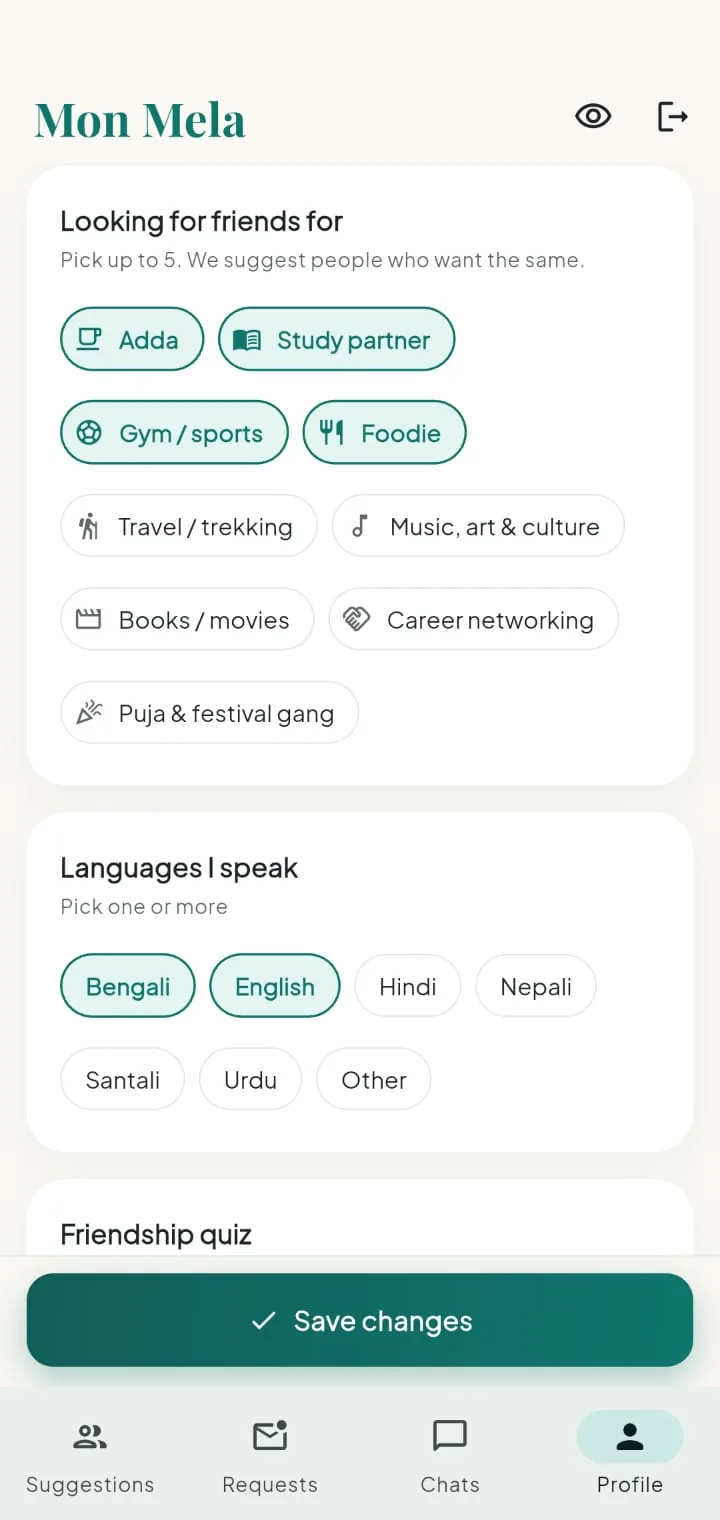
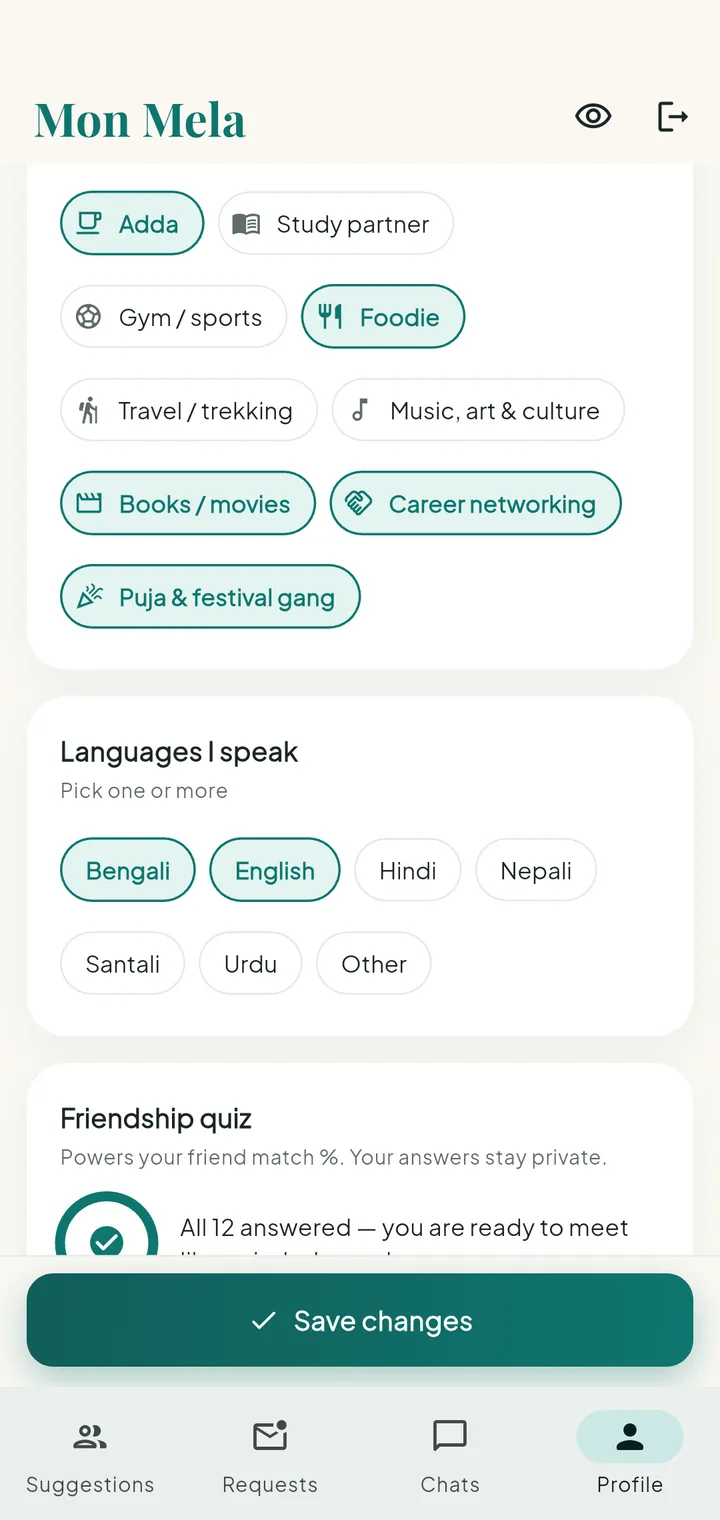
New app screenshots

diff --git a/index.html b/index.html
@@ -138,7 +138,7 @@
 
   <section class="how" aria-labelledby="how">
     <h2 id="how"><span class="l" lang="en">How it works</span><span class="l" lang="bn">কীভাবে কাজ করে</span></h2>
-    <ol class="how-row"><li class="how-item"><div class="phone "><div class="screen"><img src="img/app-welcome.webp" alt="Mon Mela welcome screen with Continue with Google" width="720" height="1520" loading="lazy"></div></div><div class="how-cap"><h3><span class="l" lang="en">Sign in with Google</span><span class="l" lang="bn">Google দিয়ে লগইন</span></h3><p><span class="l" lang="en">One tap, no password. We never post anything for you.</span><span class="l" lang="bn">এক ট্যাপে, পাসওয়ার্ড ছাড়া। আপনার হয়ে কিছু পোস্ট হয় না।</span></p></div></li><li class="how-item"><div class="phone "><div class="screen"><img src="img/app-looking-for.webp" alt="Picking what you are looking for: adda, study partner, gym, foodie" width="720" height="1520" loading="lazy"></div></div><div class="how-cap"><h3><span class="l" lang="en">Say what you're looking for</span><span class="l" lang="bn">কী খুঁজছেন, বলুন</span></h3><p><span class="l" lang="en">Adda, a study partner, a gym buddy, the Puja gang: pick up to five.</span><span class="l" lang="bn">আড্ডা, পড়ার সঙ্গী, জিমের সঙ্গী, পুজোর দল: পাঁচটা পর্যন্ত বেছে নিন।</span></p></div></li><li class="how-item"><div class="phone "><div class="screen"><img src="img/app-quiz.webp" alt="Friendship quiz: all 12 questions answered" width="720" height="1520" loading="lazy"></div></div><div class="how-cap"><h3><span class="l" lang="en">Answer the friendship quiz</span><span class="l" lang="bn">বন্ধুত্বের কুইজ</span></h3><p><span class="l" lang="en">Twelve easy questions. Your answers stay private; they only work out your match %.</span><span class="l" lang="bn">বারোটা সহজ প্রশ্ন। উত্তর গোপন থাকে, শুধু মিলের % হিসেব হয়।</span></p></div></li><li class="how-item"><div class="phone "><div class="screen"><img src="img/app-picks.webp" alt="Today's picks: a suggestion with 35% match and why you match" width="720" height="1520" loading="lazy"></div></div><div class="how-cap"><h3><span class="l" lang="en">Meet today's picks</span><span class="l" lang="bn">আজকের মানুষেরা</span></h3><p><span class="l" lang="en">New people every morning, each with a match % and why you match.</span><span class="l" lang="bn">প্রতিদিন সকালে নতুন মানুষ, সঙ্গে মিলের % আর কেন মিল।</span></p></div></li></ol>
+    <ol class="how-row"><li class="how-item"><div class="phone "><div class="screen"><img src="img/app-welcome.webp?v=59c6282d" alt="Mon Mela welcome screen with Continue with Google" width="720" height="1520" loading="lazy"></div></div><div class="how-cap"><h3><span class="l" lang="en">Sign in with Google</span><span class="l" lang="bn">Google দিয়ে লগইন</span></h3><p><span class="l" lang="en">One tap, no password. We never post anything for you.</span><span class="l" lang="bn">এক ট্যাপে, পাসওয়ার্ড ছাড়া। আপনার হয়ে কিছু পোস্ট হয় না।</span></p></div></li><li class="how-item"><div class="phone "><div class="screen"><img src="img/app-looking-for.webp?v=d07f0ab6" alt="Picking what you are looking for: adda, study partner, gym, foodie" width="720" height="1520" loading="lazy"></div></div><div class="how-cap"><h3><span class="l" lang="en">Say what you're looking for</span><span class="l" lang="bn">কী খুঁজছেন, বলুন</span></h3><p><span class="l" lang="en">Adda, a study partner, a gym buddy, the Puja gang: pick up to five.</span><span class="l" lang="bn">আড্ডা, পড়ার সঙ্গী, জিমের সঙ্গী, পুজোর দল: পাঁচটা পর্যন্ত বেছে নিন।</span></p></div></li><li class="how-item"><div class="phone "><div class="screen"><img src="img/app-quiz.webp?v=58fe721a" alt="Friendship quiz: all 12 questions answered" width="720" height="1520" loading="lazy"></div></div><div class="how-cap"><h3><span class="l" lang="en">Answer the friendship quiz</span><span class="l" lang="bn">বন্ধুত্বের কুইজ</span></h3><p><span class="l" lang="en">Twelve easy questions. Your answers stay private; they only work out your match %.</span><span class="l" lang="bn">বারোটা সহজ প্রশ্ন। উত্তর গোপন থাকে, শুধু মিলের % হিসেব হয়।</span></p></div></li><li class="how-item"><div class="phone "><div class="screen"><img src="img/app-picks.webp?v=05b9cf1c" alt="Today's picks: a suggestion with 82% match and why you match" width="720" height="1520" loading="lazy"></div></div><div class="how-cap"><h3><span class="l" lang="en">Meet today's picks</span><span class="l" lang="bn">আজকের মানুষেরা</span></h3><p><span class="l" lang="en">New people every morning, each with a match % and why you match.</span><span class="l" lang="bn">প্রতিদিন সকালে নতুন মানুষ, সঙ্গে মিলের % আর কেন মিল।</span></p></div></li></ol>
     <p class="how-then"><svg viewBox="0 0 24 24" class="icon" aria-hidden="true"><path d="M5 6h14v9H9l-4 3z"/></svg><span><span class="l" lang="en"><b>Then connect.</b> The chat opens only when both of you say yes.</span><span class="l" lang="bn"><b>তারপর কানেক্ট।</b> দুজনেই রাজি হলে তবেই চ্যাট খোলে।</span></span></p>
   </section>
 
@@ -165,8 +165,8 @@
 <g fill="none" stroke="#115E59" stroke-width="2.4" stroke-dasharray="8 6" stroke-linecap="round" opacity=".55">
   <circle cx="160" cy="150" r="100"/><circle cx="260" cy="150" r="100"/></g>
 </svg>
-        <div class="phone phone-b"><div class="screen"><img src="img/app-looking-for.webp" alt="" width="720" height="1520" loading="lazy"></div></div>
-        <div class="phone phone-a"><div class="screen"><img src="img/app-picks.webp" alt="" width="720" height="1520" loading="lazy"></div></div>
+        <div class="phone phone-b"><div class="screen"><img src="img/app-looking-for.webp?v=d07f0ab6" alt="" width="720" height="1520" loading="lazy"></div></div>
+        <div class="phone phone-a"><div class="screen"><img src="img/app-picks.webp?v=05b9cf1c" alt="" width="720" height="1520" loading="lazy"></div></div>
       </div>
     </div>
   </section>

diff --git a/download.html b/download.html
@@ -78,7 +78,7 @@
     </div>
 
     <div class="dl-visual">
-      <div class="phone "><div class="screen"><img src="img/app-welcome.webp" alt="Mon Mela welcome screen with Continue with Google" width="720" height="1520"></div></div>
+      <div class="phone "><div class="screen"><img src="img/app-welcome.webp?v=59c6282d" alt="Mon Mela welcome screen with Continue with Google" width="720" height="1520"></div></div>
       <!-- Computers only (CSS): scan to open this page on the phone -->
       <figure class="dl-qr">
         <svg width="33mm" height="33mm" version="1.1" viewBox="0 0 33 33" xmlns="http://www.w3.org/2000/svg"><path d="M2,2H3V3H2zM3,2H4V3H3zM4,2H5V3H4zM5,2H6V3H5zM6,2H7V3H6zM7,2H8V3H7zM8,2H9V3H8zM10,2H11V3H10zM12,2H13V3H12zM15,2H16V3H15zM16,2H17V3H16zM17,2H18V3H17zM20,2H21V3H20zM24,2H25V3H24zM25,2H26V3H25zM26,2H27V3H26zM27,2H28V3H27zM28,2H29V3H28zM29,2H30V3H29zM30,2H31V3H30zM2,3H3V4H2zM8,3H9V4H8zM11,3H12V4H11zM12,3H13V4H12zM13,3H14V4H13zM17,3H18V4H17zM19,3H20V4H19zM20,3H21V4H20zM22,3H23V4H22zM24,3H25V4H24zM30,3H31V4H30zM2,4H3V5H2zM4,4H5V5H4zM5,4H6V5H5zM6,4H7V5H6zM8,4H9V5H8zM10,4H11V5H10zM11,4H12V5H11zM15,4H16V5H15zM19,4H20V5H19zM20,4H21V5H20zM24,4H25V5H24zM26,4H27V5H26zM27,4H28V5H27zM28,4H29V5H28zM30,4H31V5H30zM2,5H3V6H2zM4,5H5V6H4zM5,5H6V6H5zM6,5H7V6H6zM8,5H9V6H8zM14,5H15V6H14zM17,5H18V6H17zM18,5H19V6H18zM19,5H20V6H19zM20,5H21V6H20zM22,5H23V6H22zM24,5H25V6H24zM26,5H27V6H26zM27,5H28V6H27zM28,5H29V6H28zM30,5H31V6H30zM2,6H3V7H2zM4,6H5V7H4zM5,6H6V7H5zM6,6H7V7H6zM8,6H9V7H8zM12,6H13V7H12zM13,6H14V7H13zM17,6H18V7H17zM18,6H19V7H18zM20,6H21V7H20zM24,6H25V7H24zM26,6H27V7H26zM27,6H28V7H27zM28,6H29V7H28zM30,6H31V7H30zM2,7H3V8H2zM8,7H9V8H8zM10,7H11V8H10zM14,7H15V8H14zM15,7H16V8H15zM16,7H17V8H16zM18,7H19V8H18zM20,7H21V8H20zM22,7H23V8H22zM24,7H25V8H24zM30,7H31V8H30zM2,8H3V9H2zM3,8H4V9H3zM4,8H5V9H4zM5,8H6V9H5zM6,8H7V9H6zM7,8H8V9H7zM8,8H9V9H8zM10,8H11V9H10zM12,8H13V9H12zM14,8H15V9H14zM16,8H17V9H16zM18,8H19V9H18zM20,8H21V9H20zM22,8H23V9H22zM24,8H25V9H24zM25,8H26V9H25zM26,8H27V9H26zM27,8H28V9H27zM28,8H29V9H28zM29,8H30V9H29zM30,8H31V9H30zM11,9H12V10H11zM12,9H13V10H12zM13,9H14V10H13zM15,9H16V10H15zM21,9H22V10H21zM22,9H23V10H22zM2,10H3V11H2zM4,10H5V11H4zM8,10H9V11H8zM9,10H10V11H9zM11,10H12V11H11zM13,10H14V11H13zM15,10H16V11H15zM17,10H18V11H17zM18,10H19V11H18zM22,10H23V11H22zM25,10H26V11H25zM28,10H29V11H28zM30,10H31V11H30zM3,11H4V12H3zM4,11H5V12H4zM6,11H7V12H6zM7,11H8V12H7zM9,11H10V12H9zM12,11H13V12H12zM18,11H19V12H18zM19,11H20V12H19zM21,11H22V12H21zM22,11H23V12H22zM24,11H25V12H24zM25,11H26V12H25zM29,11H30V12H29zM30,11H31V12H30zM2,12H3V13H2zM5,12H6V13H5zM8,12H9V13H8zM14,12H15V13H14zM15,12H16V13H15zM16,12H17V13H16zM18,12H19V13H18zM21,12H22V13H21zM22,12H23V13H22zM24,12H25V13H24zM26,12H27V13H26zM27,12H28V13H27zM28,12H29V13H28zM30,12H31V13H30zM2,13H3V14H2zM4,13H5V14H4zM5,13H6V14H5zM9,13H10V14H9zM11,13H12V14H11zM12,13H13V14H12zM13,13H14V14H13zM14,13H15V14H14zM16,13H17V14H16zM17,13H18V14H17zM18,13H19V14H18zM20,13H21V14H20zM22,13H23V14H22zM23,13H24V14H23zM25,13H26V14H25zM26,13H27V14H26zM27,13H28V14H27zM2,14H3V15H2zM5,14H6V15H5zM6,14H7V15H6zM8,14H9V15H8zM10,14H11V15H10zM14,14H15V15H14zM15,14H16V15H15zM16,14H17V15H16zM21,14H22V15H21zM22,14H23V15H22zM24,14H25V15H24zM25,14H26V15H25zM30,14H31V15H30zM2,15H3V16H2zM6,15H7V16H6zM7,15H8V16H7zM9,15H10V16H9zM10,15H11V16H10zM11,15H12V16H11zM12,15H13V16H12zM13,15H14V16H13zM14,15H15V16H14zM15,15H16V16H15zM16,15H17V16H16zM21,15H22V16H21zM22,15H23V16H22zM24,15H25V16H24zM25,15H26V16H25zM29,15H30V16H29zM30,15H31V16H30zM2,16H3V17H2zM3,16H4V17H3zM4,16H5V17H4zM8,16H9V17H8zM10,16H11V17H10zM11,16H12V17H11zM14,16H15V17H14zM17,16H18V17H17zM19,16H20V17H19zM20,16H21V17H20zM21,16H22V17H21zM25,16H26V17H25zM30,16H31V17H30zM2,17H3V18H2zM3,17H4V18H3zM5,17H6V18H5zM7,17H8V18H7zM9,17H10V18H9zM10,17H11V18H10zM15,17H16V18H15zM20,17H21V18H20zM21,17H22V18H21zM22,17H23V18H22zM25,17H26V18H25zM26,17H27V18H26zM3,18H4V19H3zM7,18H8V19H7zM8,18H9V19H8zM9,18H10V19H9zM11,18H12V19H11zM12,18H13V19H12zM14,18H15V19H14zM15,18H16V19H15zM17,18H18V19H17zM18,18H19V19H18zM22,18H23V19H22zM24,18H25V19H24zM25,18H26V19H25zM30,18H31V19H30zM3,19H4V20H3zM4,19H5V20H4zM5,19H6V20H5zM9,19H10V20H9zM10,19H11V20H10zM11,19H12V20H11zM13,19H14V20H13zM18,19H19V20H18zM21,19H22V20H21zM24,19H25V20H24zM25,19H26V20H25zM28,19H29V20H28zM29,19H30V20H29zM30,19H31V20H30zM2,20H3V21H2zM3,20H4V21H3zM4,20H5V21H4zM8,20H9V21H8zM9,20H10V21H9zM11,20H12V21H11zM12,20H13V21H12zM15,20H16V21H15zM16,20H17V21H16zM18,20H19V21H18zM19,20H20V21H19zM21,20H22V21H21zM22,20H23V21H22zM23,20H24V21H23zM24,20H25V21H24zM27,20H28V21H27zM30,20H31V21H30zM5,21H6V22H5zM7,21H8V22H7zM9,21H10V22H9zM10,21H11V22H10zM11,21H12V22H11zM12,21H13V22H12zM13,21H14V22H13zM14,21H15V22H14zM16,21H17V22H16zM17,21H18V22H17zM18,21H19V22H18zM21,21H22V22H21zM22,21H23V22H22zM23,21H24V22H23zM25,21H26V22H25zM26,21H27V22H26zM2,22H3V23H2zM3,22H4V23H3zM7,22H8V23H7zM8,22H9V23H8zM10,22H11V23H10zM12,22H13V23H12zM13,22H14V23H13zM15,22H16V23H15zM16,22H17V23H16zM19,22H20V23H19zM20,22H21V23H20zM22,22H23V23H22zM23,22H24V23H23zM24,22H25V23H24zM25,22H26V23H25zM26,22H27V23H26zM27,22H28V23H27zM29,22H30V23H29zM10,23H11V24H10zM15,23H16V24H15zM16,23H17V24H16zM19,23H20V24H19zM22,23H23V24H22zM26,23H27V24H26zM27,23H28V24H27zM28,23H29V24H28zM30,23H31V24H30zM2,24H3V25H2zM3,24H4V25H3zM4,24H5V25H4zM5,24H6V25H5zM6,24H7V25H6zM7,24H8V25H7zM8,24H9V25H8zM10,24H11V25H10zM11,24H12V25H11zM13,24H14V25H13zM17,24H18V25H17zM22,24H23V25H22zM24,24H25V25H24zM26,24H27V25H26zM30,24H31V25H30zM2,25H3V26H2zM8,25H9V26H8zM11,25H12V26H11zM12,25H13V26H12zM13,25H14V26H13zM15,25H16V26H15zM19,25H20V26H19zM21,25H22V26H21zM22,25H23V26H22zM26,25H27V26H26zM29,25H30V26H29zM30,25H31V26H30zM2,26H3V27H2zM4,26H5V27H4zM5,26H6V27H5zM6,26H7V27H6zM8,26H9V27H8zM11,26H12V27H11zM13,26H14V27H13zM15,26H16V27H15zM17,26H18V27H17zM18,26H19V27H18zM19,26H20V27H19zM21,26H22V27H21zM22,26H23V27H22zM23,26H24V27H23zM24,26H25V27H24zM25,26H26V27H25zM26,26H27V27H26zM27,26H28V27H27zM29,26H30V27H29zM2,27H3V28H2zM4,27H5V28H4zM5,27H6V28H5zM6,27H7V28H6zM8,27H9V28H8zM11,27H12V28H11zM12,27H13V28H12zM15,27H16V28H15zM18,27H19V28H18zM21,27H22V28H21zM26,27H27V28H26zM27,27H28V28H27zM28,27H29V28H28zM29,27H30V28H29zM2,28H3V29H2zM4,28H5V29H4zM5,28H6V29H5zM6,28H7V29H6zM8,28H9V29H8zM10,28H11V29H10zM12,28H13V29H12zM13,28H14V29H13zM15,28H16V29H15zM18,28H19V29H18zM19,28H20V29H19zM20,28H21V29H20zM21,28H22V29H21zM23,28H24V29H23zM26,28H27V29H26zM29,28H30V29H29zM30,28H31V29H30zM2,29H3V30H2zM8,29H9V30H8zM12,29H13V30H12zM13,29H14V30H13zM15,29H16V30H15zM16,29H17V30H16zM17,29H18V30H17zM18,29H19V30H18zM20,29H21V30H20zM22,29H23V30H22zM23,29H24V30H23zM24,29H25V30H24zM25,29H26V30H25zM27,29H28V30H27zM2,30H3V31H2zM3,30H4V31H3zM4,30H5V31H4zM5,30H6V31H5zM6,30H7V31H6zM7,30H8V31H7zM8,30H9V31H8zM10,30H11V31H10zM13,30H14V31H13zM14,30H15V31H14zM16,30H17V31H16zM19,30H20V31H19zM20,30H21V31H20zM22,30H23V31H22zM23,30H24V31H23zM27,30H28V31H27zM30,30H31V31H30z" id="qr-path" fill="#000000" fill-opacity="1" fill-rule="nonzero" stroke="none"/></svg>

diff --git a/_src/tools/prep_store_screens.py b/_src/tools/prep_store_screens.py
@@ -1,0 +1,152 @@
+# Turns raw phone screenshots (1080 × 2400) into:
+#   - Play Store screenshots: 1080 × 1920 (9:16), teal background, caption on top, screen below
+#   - website phone screens:  720 × 1520 (same size as the existing img/app-*.webp)
+# Privacy: every real person's name, photo, place and chat text is blurred. Raw screenshots are
+# NOT kept in the repo because they show real people.
+# Usage: python3 _src/tools/prep_store_screens.py <raw folder> <fonts folder> <play output folder>
+import pathlib
+import sys
+
+from PIL import Image, ImageDraw, ImageFilter, ImageFont
+
+RAW, FONTS, PLAY_OUT = (pathlib.Path(a) for a in sys.argv[1:4])
+WEB_OUT = pathlib.Path(__file__).resolve().parents[2] / "img"
+STATUS, NAV = 120, 2280  # status bar ends / navigation bar starts (1080 × 2400 phone)
+
+TEAL, TEAL_DARK, CREAM, MARIGOLD = "#12766C", "#0B5A52", "#FAF7F2", "#F2B230"
+
+
+def load(name):
+    return Image.open(RAW / f"{name}.png").convert("RGB")
+
+
+def blur(im, boxes, circles=(), radius=18, strength=28):
+    """Blur rounded boxes and round avatars (x1, y1, x2, y2). strength 28 hides faces and text."""
+    blurred = im.filter(ImageFilter.GaussianBlur(strength))
+    mask = Image.new("L", im.size, 0)
+    d = ImageDraw.Draw(mask)
+    for b in boxes:
+        d.rounded_rectangle(b, radius, fill=255)
+    for c in circles:
+        d.ellipse(c, fill=255)
+    # Blur inside each avatar only, then put the circle back on the page colour so it stays round.
+    out = Image.composite(blurred, im, mask)
+    for c in circles:
+        inner = im.crop(c).filter(ImageFilter.GaussianBlur(strength // 2))
+        circle = Image.new("L", inner.size, 0)
+        ImageDraw.Draw(circle).ellipse((0, 0, inner.width - 1, inner.height - 1), fill=255)
+        bg = Image.new("RGB", inner.size, im.getpixel((c[0] - 6, c[1] + 2)))
+        out.paste(Image.composite(inner, bg, circle), c[:2])
+    return out
+
+
+def blur_except(im, area, keep, radius=40, strength=34):
+    """Blur a whole photo area but keep small parts (badges, buttons) sharp."""
+    blurred = im.filter(ImageFilter.GaussianBlur(strength))
+    mask = Image.new("L", im.size, 0)
+    d = ImageDraw.Draw(mask)
+    d.rounded_rectangle(area, radius, fill=255)
+    for k in keep:
+        d.rounded_rectangle(k, 40, fill=0)
+    return Image.composite(blurred, im, mask)
+
+
+def remove_band(im, top, bottom, filler_y):
+    """Cut rows top..bottom out of the scrolling area and close the gap (fills the end with a blank row)."""
+    out = im.copy()
+    content_end = 1876  # just above the divider line of the fixed "Save changes" bar
+    out.paste(im.crop((0, bottom, im.width, content_end)), (0, top))
+    row = im.crop((0, filler_y, im.width, filler_y + 1))
+    for y in range(content_end - (bottom - top), content_end):
+        out.paste(row, (0, y))
+    return out
+
+
+# ---------------------------------------------------------------- privacy edits
+screens = {}
+
+# Today's picks: photo, name and place blurred; match % and the "why you match" chips stay.
+im = load("picks")
+screens["picks"] = blur_except(im, (40, 360, 1040, 1610), keep=[(758, 388, 1012, 472), (68, 388, 172, 492)])
+
+# Filter sheet: blur the photo behind the sheet.
+im = load("filters")
+screens["filters"] = blur_except(im, (40, 335, 1040, 1150), keep=[(758, 363, 1012, 447), (68, 363, 172, 467)])
+
+# Requests: photo, name, age, place and the message.
+im = load("requests")
+screens["requests"] = blur(im, [(236, 460, 482, 520), (236, 515, 710, 562), (92, 625, 260, 690)],
+                           circles=[(70, 435, 210, 575)])
+
+# Chats: photos, names and last messages (dates stay).
+im = load("chats")
+boxes, circles = [], []
+for top, name_right in [(300, 316), (500, 364), (700, 394)]:
+    circles.append((50, top, 180, top + 130))
+    boxes += [(214, top + 12, name_right, top + 66), (214, top + 68, 905, top + 122)]
+screens["chats"] = blur(im, boxes, circles)
+
+# Looking for + languages: nothing personal.
+screens["looking"] = load("looking-for")
+
+# Photo verification: nothing personal on this screen.
+screens["verify"] = load("verify")
+
+# Safety + Account: hide the admin-only "Review verifications" row.
+screens["safety"] = remove_band(load("safety"), 610, 750, filler_y=1860)
+
+
+# ---------------------------------------------------------------- website (720 × 1520)
+def web(im):
+    out = im.copy()
+    row = im.crop((0, STATUS + 2, im.width, STATUS + 3))
+    for y in range(STATUS + 2):  # clean status bar: paint it with the colour just below
+        out.paste(row, (0, y))
+    return out.crop((0, 0, im.width, NAV)).resize((720, 1520), Image.LANCZOS)
+
+
+for key, file in [("looking", "app-looking-for"), ("picks", "app-picks")]:
+    web(screens[key]).save(WEB_OUT / f"{file}.webp", "WEBP", quality=82, method=6)
+
+
+# ---------------------------------------------------------------- Play Store (1080 × 1920)
+title_font = ImageFont.truetype(str(FONTS / "PlayfairDisplay-Bold.ttf"), 78)
+sub_font = ImageFont.truetype(str(FONTS / "PlusJakartaSans-Medium.ttf"), 38)
+
+PLAY = [  # order = order on the store listing; the first three matter most
+    ("picks", "Meet people who get you", "New picks every morning, with your match %"),
+    ("verify", "Get photo verified", "One quick selfie earns your verified badge"),
+    ("requests", "Say hello first", "Send a friend request with a short note"),
+    ("chats", "Chat once you're both in", "Only friends can message you"),
+    ("looking", "Adda, study, food & more", "Pick what you want friends for"),
+    ("filters", "You choose who you see", "Age range, and same-gender-only if you like"),
+    ("safety", "Safe by design", "Verified badge, block and pause anytime"),
+]
+
+
+def play_shot(screen, title, sub):
+    canvas = Image.new("RGB", (1080, 1920), TEAL)
+    # Soft vertical gradient: lighter teal at top → darker at the bottom.
+    grad = Image.linear_gradient("L").resize((1080, 1920))
+    canvas = Image.composite(Image.new("RGB", canvas.size, TEAL_DARK), canvas, grad)
+    d = ImageDraw.Draw(canvas)
+    d.text((540, 150), title, font=title_font, fill=CREAM, anchor="mm")
+    d.rounded_rectangle((500, 212, 580, 220), 4, fill=MARIGOLD)  # small marigold accent
+    d.text((540, 280), sub, font=sub_font, fill="#CFE7E2", anchor="mm")
+
+    # The phone screen: status and nav bars cropped, scaled to 800 px wide, bleeding off the bottom.
+    body = screen.crop((0, STATUS, 1080, NAV)).resize((800, 1600), Image.LANCZOS)
+    x, y = 140, 380
+    shadow = Image.new("L", canvas.size, 0)
+    ImageDraw.Draw(shadow).rounded_rectangle((x - 6, y + 10, x + 806, y + 1640), 48, fill=110)
+    canvas.paste(Image.new("RGB", canvas.size, "#06302C"), mask=shadow.filter(ImageFilter.GaussianBlur(24)))
+    frame = Image.new("L", body.size, 0)
+    ImageDraw.Draw(frame).rounded_rectangle((0, 0, 799, 1640), 44, fill=255)
+    canvas.paste(body, (x, y), frame)
+    return canvas
+
+
+PLAY_OUT.mkdir(parents=True, exist_ok=True)
+for i, (key, title, sub) in enumerate(PLAY, 1):
+    play_shot(screens[key], title, sub).save(PLAY_OUT / f"{i}-{key}.png", optimize=True)
+    print("play", i, key)

diff --git a/_src/build.py b/_src/build.py
@@ -227,8 +227,8 @@ SCREENS = {
                 "কী খুঁজছেন বেছে নেওয়া: আড্ডা, পড়ার সঙ্গী, জিম, খাওয়াদাওয়া"),
     "quiz": ("img/app-quiz.webp", "Friendship quiz: all 12 questions answered",
              "বন্ধুত্বের কুইজ: ১২টা প্রশ্নেরই উত্তর দেওয়া"),
-    "picks": ("img/app-picks.webp", "Today's picks: a suggestion with 35% match and why you match",
-              "আজকের মানুষ: ৩৫% মিল আর কেন মিল"),
+    "picks": ("img/app-picks.webp", "Today's picks: a suggestion with 82% match and why you match",
+              "আজকের মানুষ: ৮২% মিল আর কেন মিল"),
 }
 
 
@@ -238,7 +238,7 @@ def phone(key, cls="", lazy=True, alt=True):
     loading = ' loading="lazy"' if lazy else ""
     alt_text = alt_en if alt else ""
     return (f'<div class="phone {cls}"><div class="screen">'
-            f'<img src="{src}" alt="{alt_text}" width="720" height="1520"{loading}></div></div>')
+            f'<img src="{asset(src)}" alt="{alt_text}" width="720" height="1520"{loading}></div></div>')  # ?v= → new screenshot shows at once
 
 
 def home():
